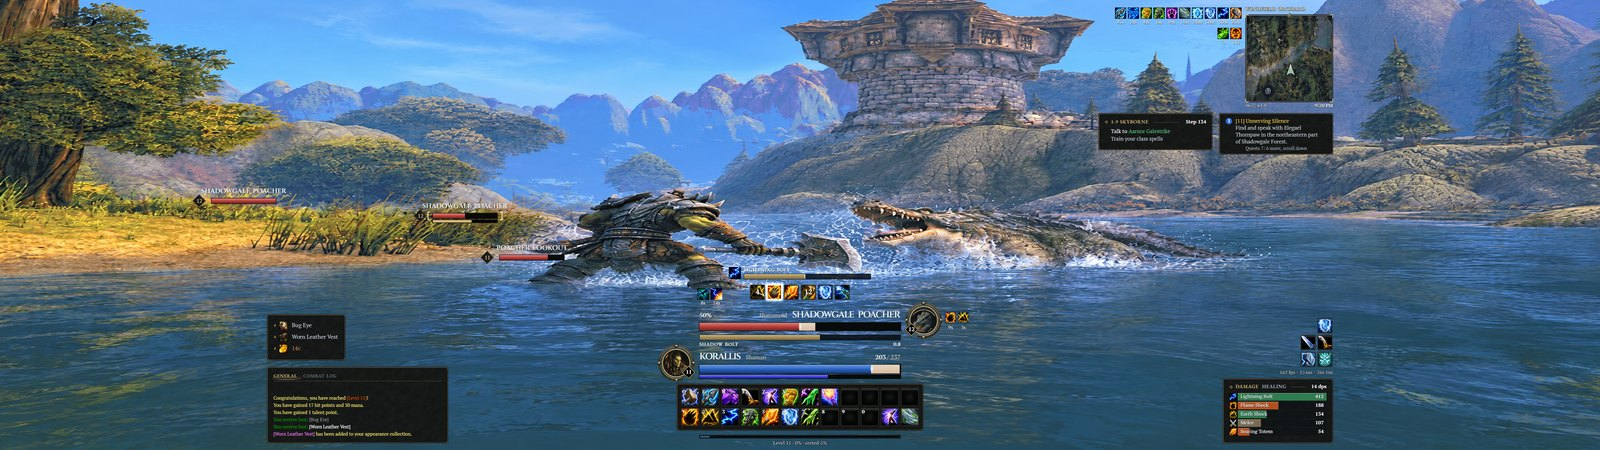
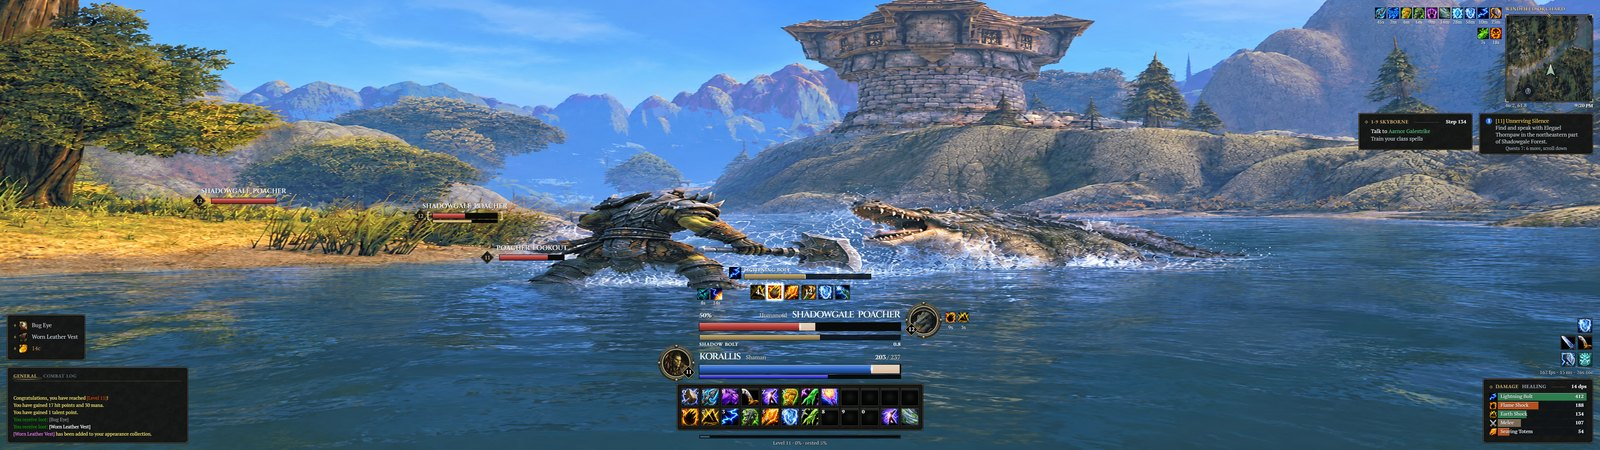
docs(readme): show the ultrawide HUD pictures in the Spread arrangement (#434)

diff --git a/Tools/render/readme.py b/Tools/render/readme.py
@@ -9,9 +9,9 @@ Every render draws at the shipped ornament level, Full. None of the pictures is 
 
 The pictures:
 
-  hud_<style>_5120, hud_<style>_1080   the whole HUD in Frames, Orbs and Medallions, in combat, on a 5120x1440 screen at
-                                       Interface size Auto and on a 1920x1080 screen at the 15/16 size the game picks
-                                       there
+  hud_<style>_5120, hud_<style>_1080   the whole HUD in Frames, Orbs and Medallions, in combat, on a 5120x1440 screen
+                                       in the Spread arrangement at Interface size Auto and on a 1920x1080 screen at the
+                                       15/16 size the game picks there
   ultrawide_centred, ultrawide_spread  the Healer layout on 5120x1440 in each ultrawide arrangement
   crop_*                               close crops of the 1080 HUD drawn at twice the density: the orbs and tray, the
                                        Medallions crest hub and frames, the unit frames, the right rail, the group meter,
@@ -61,7 +61,7 @@ def style_env(style):
 RENDERS = {}
 for _style in STYLES:
     _key = _style.lower()
-    RENDERS[_key + "_5120"] = ("hud_reference", 1440 / 1080, dict(ULTRAWIDE, **style_env(_style)), "--strict")
+    RENDERS[_key + "_5120"] = ("hud_reference", 1440 / 1080, dict(ULTRAWIDE, **style_env(_style), RENDER_ARRANGEMENT="spread"), "--strict")
     RENDERS[_key + "_1080"] = ("hud_reference", 1.0, dict(HD, **style_env(_style)), "--strict")
     RENDERS[_key + "_1080_2x"] = ("hud_reference", 2.0, dict(HD, **style_env(_style)), "--strict")
 for _arrangement in ("centred", "spread"):

diff --git a/README.md b/README.md
@@ -6,15 +6,15 @@
 
 <p align="center"><a href="https://github.com/korallis/KstyleUI/releases/latest">Download the latest release</a>&nbsp;&nbsp;&nbsp;<a href="#install">Install</a>&nbsp;&nbsp;&nbsp;<a href="#three-hud-styles-frames-orbs-and-medallions">HUD styles</a>&nbsp;&nbsp;&nbsp;<a href="#every-screen-ultrawide-included">Ultrawide</a></p>
 
-<p align="center"><img src="docs/media/readme/hud_orbs_5120.jpg" width="100%" alt="Test render of the KstyleUI addon in its Orbs HUD style on a 5120 by 1440 ultrawide screen, in combat: health and mana orbs either side of the action bars, the target bar at the top, nameplates, the map, quest and guide cards and the damage meter on the right"></p>
+<p align="center"><img src="docs/media/readme/hud_orbs_5120.jpg" width="100%" alt="Test render of the KstyleUI addon in its Orbs HUD style on a 5120 by 1440 ultrawide screen in the Spread arrangement, in combat: health and mana orbs either side of the action bars in the middle, the target bar at the top, nameplates, and chat and loot at the left edge with the map, quest cards, action rail and damage meter down the right edge"></p>
 
-<p align="center"><sub>Test render of the addon: the Orbs HUD in combat on a 5120 by 1440 screen. Every picture on this page is a test render drawn from KstyleUI's own code, not a game screenshot.</sub></p>
+<p align="center"><sub>Test render of the addon: the Orbs HUD in combat on a 5120 by 1440 screen, in the Spread arrangement that uses the screen edge to edge. Every picture on this page is a test render drawn from KstyleUI's own code, not a game screenshot.</sub></p>
 
 ## Three HUD styles: Frames, Orbs and Medallions
 
-<p align="center"><img src="docs/media/readme/hud_frames_5120.jpg" width="100%" alt="Test render of the KstyleUI addon in its Frames HUD style on a 5120 by 1440 screen, in combat: the target card over the player card above two action bars, centred in the middle of the ultrawide"></p>
+<p align="center"><img src="docs/media/readme/hud_frames_5120.jpg" width="100%" alt="Test render of the KstyleUI addon in its Frames HUD style on a 5120 by 1440 screen in the Spread arrangement, in combat: the target card over the player card above two action bars in the middle, with chat at the left edge and the map, quest cards and damage meter down the right edge"></p>
 
-<p align="center"><sub>Test render of the addon: the Frames HUD in combat on a 5120 by 1440 screen.</sub></p>
+<p align="center"><sub>Test render of the addon: the Frames HUD in combat on a 5120 by 1440 screen, in the Spread arrangement.</sub></p>
 
 **Frames** keeps your health and resource on a player card above the action bars, with your target's card stacked over it, its portrait on the far side. **Orbs** puts your health and resource in two orbs either side of a forged tray round your first action bar, and moves your target to a wide bar at the top of the screen.
 
@@ -33,9 +33,9 @@
 
 ### Medallions
 
-<p align="center"><img src="docs/media/readme/hud_medallions_5120.jpg" width="100%" alt="Test render of the KstyleUI addon in its Medallions HUD style on a 5120 by 1440 screen, in combat: round painted portraits on the player and target slabs, and one long dark action slab with a dwarf shaman's crest in a rune ring at its centre"></p>
+<p align="center"><img src="docs/media/readme/hud_medallions_5120.jpg" width="100%" alt="Test render of the KstyleUI addon in its Medallions HUD style on a 5120 by 1440 screen in the Spread arrangement, in combat: round painted portraits on the player and target slabs, and one long dark action slab with a dwarf shaman's crest in a rune ring at its centre, with chat at the left edge and the map, quest cards and damage meter down the right edge"></p>
 
-<p align="center"><sub>Test render of the addon: the Medallions HUD in combat on a 5120 by 1440 screen.</sub></p>
+<p align="center"><sub>Test render of the addon: the Medallions HUD in combat on a 5120 by 1440 screen, in the Spread arrangement.</sub></p>
 
 **Medallions** is dark gunmetal with rounded, bevelled edges, like a piece of forged hardware. Your player and target frames are slabs with clean bars, an outlined health number at the end of each bar and a round medallion on the outer end, its rim engraved with a band of runes. Yours is a painted portrait of your race, class and sex, and other players get their own. A creature, pet or boss shows the game's own portrait. The frames sit in one tight cluster just above the action slab, with your pet and your target's target beside the medallions, cast bars over the crest and your target's debuffs as small tiles with a dispel-colour underline. Numbers use Barlow Semi Condensed, and nameplates are slimmer, with ticks on your target.
 
